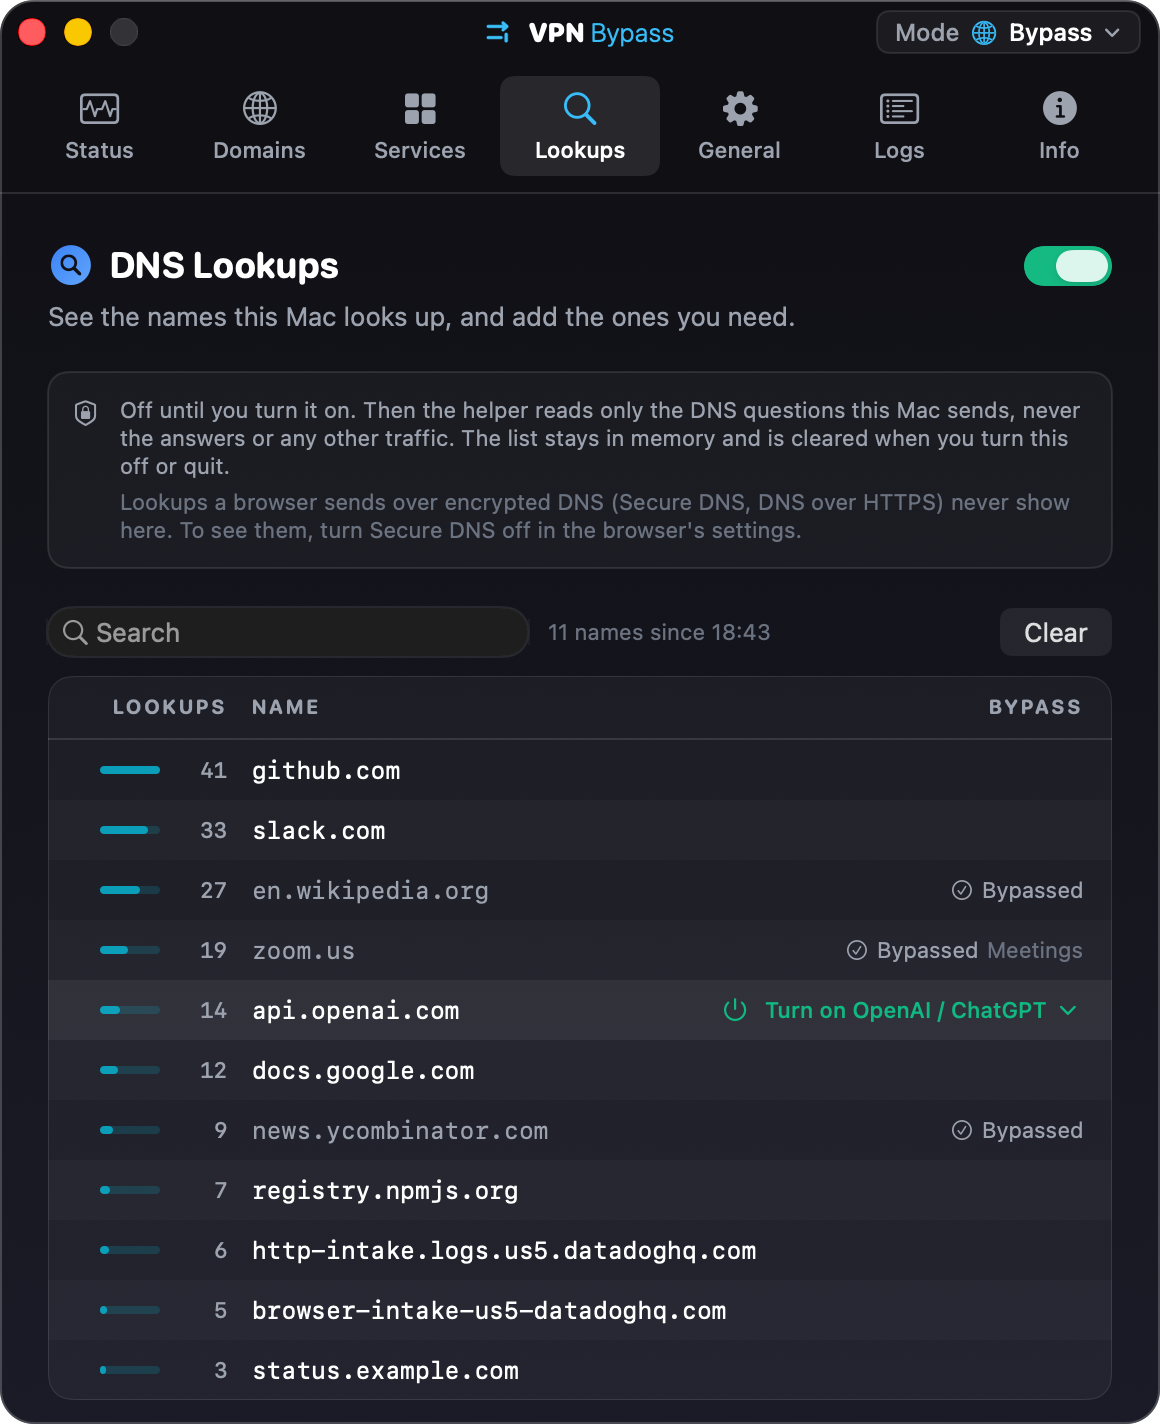
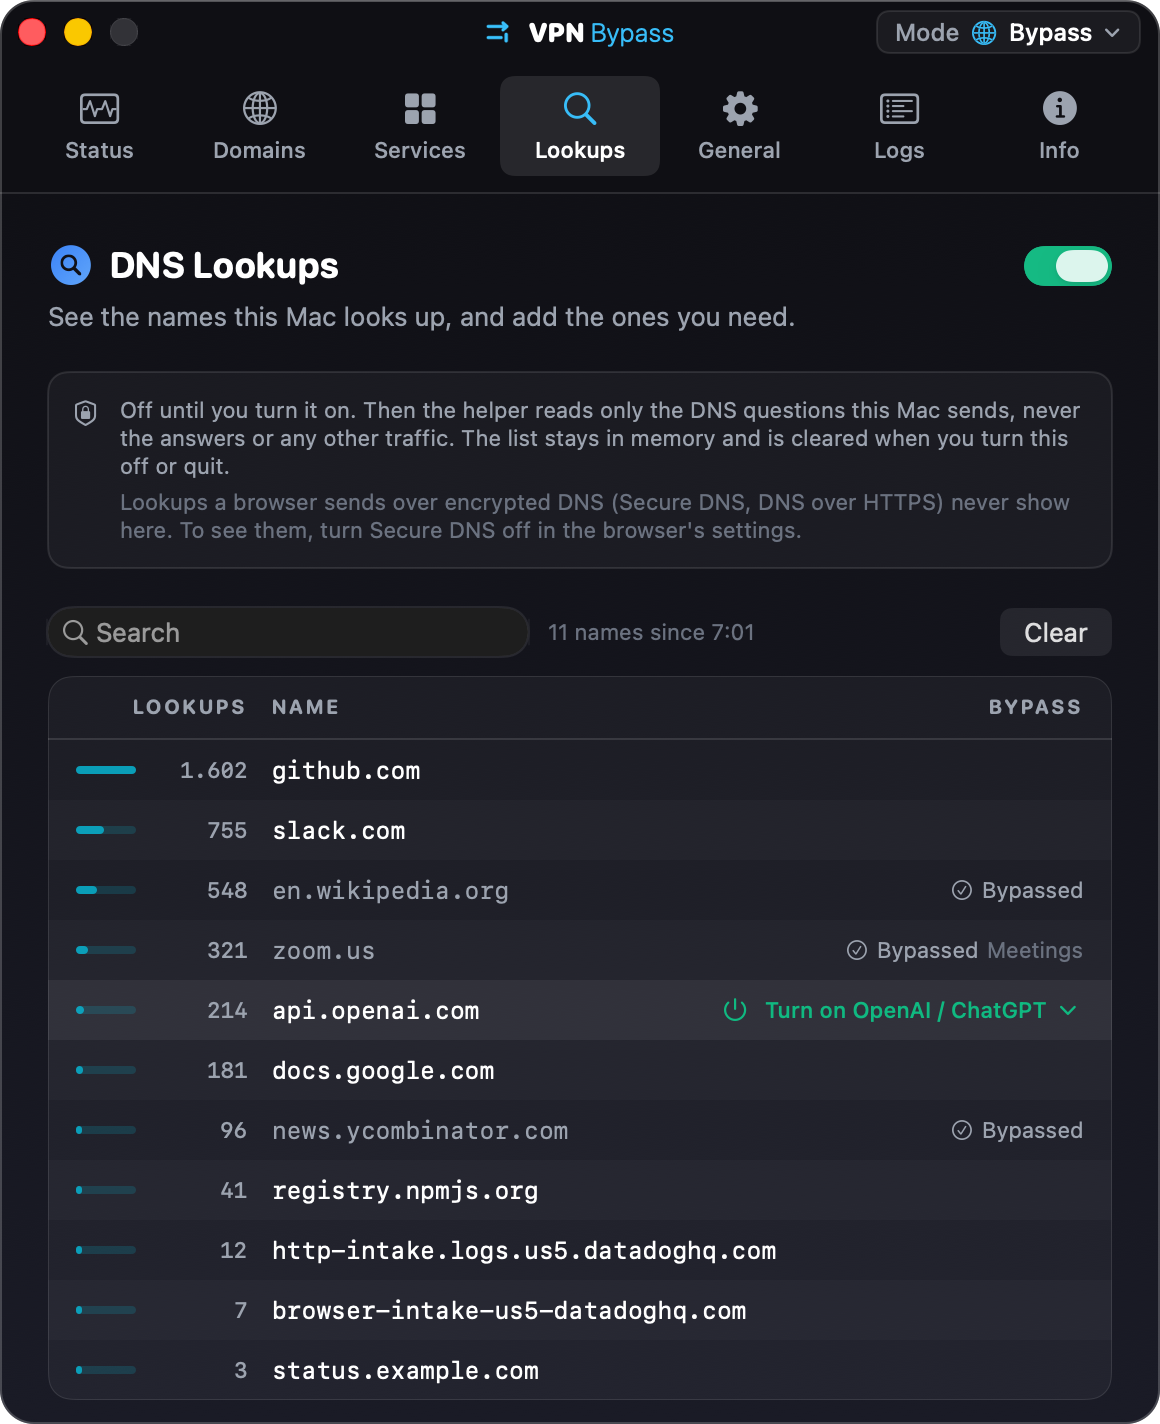
fix(lookups): keep every count bar in line when a count reaches four digits (#182)

diff --git a/Sources/VPNBypassCore/LookupsTab.swift b/Sources/VPNBypassCore/LookupsTab.swift
@@ -237,7 +237,12 @@ private struct LookupRow: View {
     /// The mode the panel was opened in. A choice made for one mode is never added in another.
     @State private var panelMode: LookupMode?
 
-    static let countWidth: CGFloat = 76
+    /// The bar, the gap and the number, so every row's bar starts at the same x.
+    static let countWidth: CGFloat = barWidth + 8 + countNumberWidth
+    static let barWidth: CGFloat = 30
+    /// Fits "999.999" in 11 pt monospaced; a longer count shrinks to fit instead of
+    /// widening the row and pushing its bar out of line.
+    static let countNumberWidth: CGFloat = 48
     /// The most a listed row's service name takes beside its status.
     static let statusDetailWidth: CGFloat = 120
     /// How long, in tenths of a second, a panel add waits for a running apply.
@@ -258,16 +263,18 @@ private struct LookupRow: View {
             HStack(spacing: 8) {
                 Capsule()
                     .fill(Theme.cyan.opacity(0.18))
-                    .frame(width: 30, height: 4)
+                    .frame(width: Self.barWidth, height: 4)
                     .overlay(alignment: .leading) {
-                        Capsule().fill(Theme.cyan.opacity(0.8)).frame(width: max(3, 30 * share), height: 4)
+                        Capsule().fill(Theme.cyan.opacity(0.8)).frame(width: max(3, Self.barWidth * share), height: 4)
                     }
                 Text("\(entry.count)")
                     .font(.system(size: 11, weight: .medium, design: .monospaced))
                     .foregroundColor(Theme.textSecondary)
-                    .frame(minWidth: 26, alignment: .trailing)
+                    .lineLimit(1)
+                    .minimumScaleFactor(0.6)
+                    .frame(width: Self.countNumberWidth, alignment: .trailing)
             }
-            .frame(width: Self.countWidth, alignment: .trailing)
+            .frame(width: Self.countWidth, alignment: .leading)
             .help(String(localized: "Times looked up"))
 
             // The name takes every point the right end does not use right now.

diff --git a/Tests/VPNBypassTests/DocScreenshotsTests.swift b/Tests/VPNBypassTests/DocScreenshotsTests.swift
@@ -226,14 +226,15 @@ final class DocScreenshotsTests: XCTestCase {
         rm.config.dnsLookupsEnabled = true
         rm.config.services.append(ServiceEntry(id: "custom_meetings", name: "Meetings", enabled: true,
                                                domains: ["zoom.us"], ipRanges: [], isCustom: true))
-        let counts = ["github.com": 41, "slack.com": 33, "en.wikipedia.org": 27, "zoom.us": 19,
-                      "api.openai.com": 14, "docs.google.com": 12, "news.ycombinator.com": 9,
-                      "registry.npmjs.org": 7, "http-intake.logs.us5.datadoghq.com": 6,
-                      "browser-intake-us5-datadoghq.com": 5, "status.example.com": 3]
+        // Counts from one to four digits, so the shot shows the bars still line up.
+        let counts = ["github.com": 1602, "slack.com": 755, "en.wikipedia.org": 548, "zoom.us": 321,
+                      "api.openai.com": 214, "docs.google.com": 181, "news.ycombinator.com": 96,
+                      "registry.npmjs.org": 41, "http-intake.logs.us5.datadoghq.com": 12,
+                      "browser-intake-us5-datadoghq.com": 7, "status.example.com": 3]
         var tally = DNSLookupTally()
         let start = Date().addingTimeInterval(-3 * 3600)
         for round in 0..<(counts.values.max() ?? 0) {
-            tally.record(counts.filter { $0.value > round }.map(\.key), at: start.addingTimeInterval(Double(round) * 60))
+            tally.record(counts.filter { $0.value > round }.map(\.key), at: start.addingTimeInterval(Double(round) * 6))
         }
         DNSLookupsMonitor.shared.tally = tally
         DNSLookupsMonitor.shared.since = start
